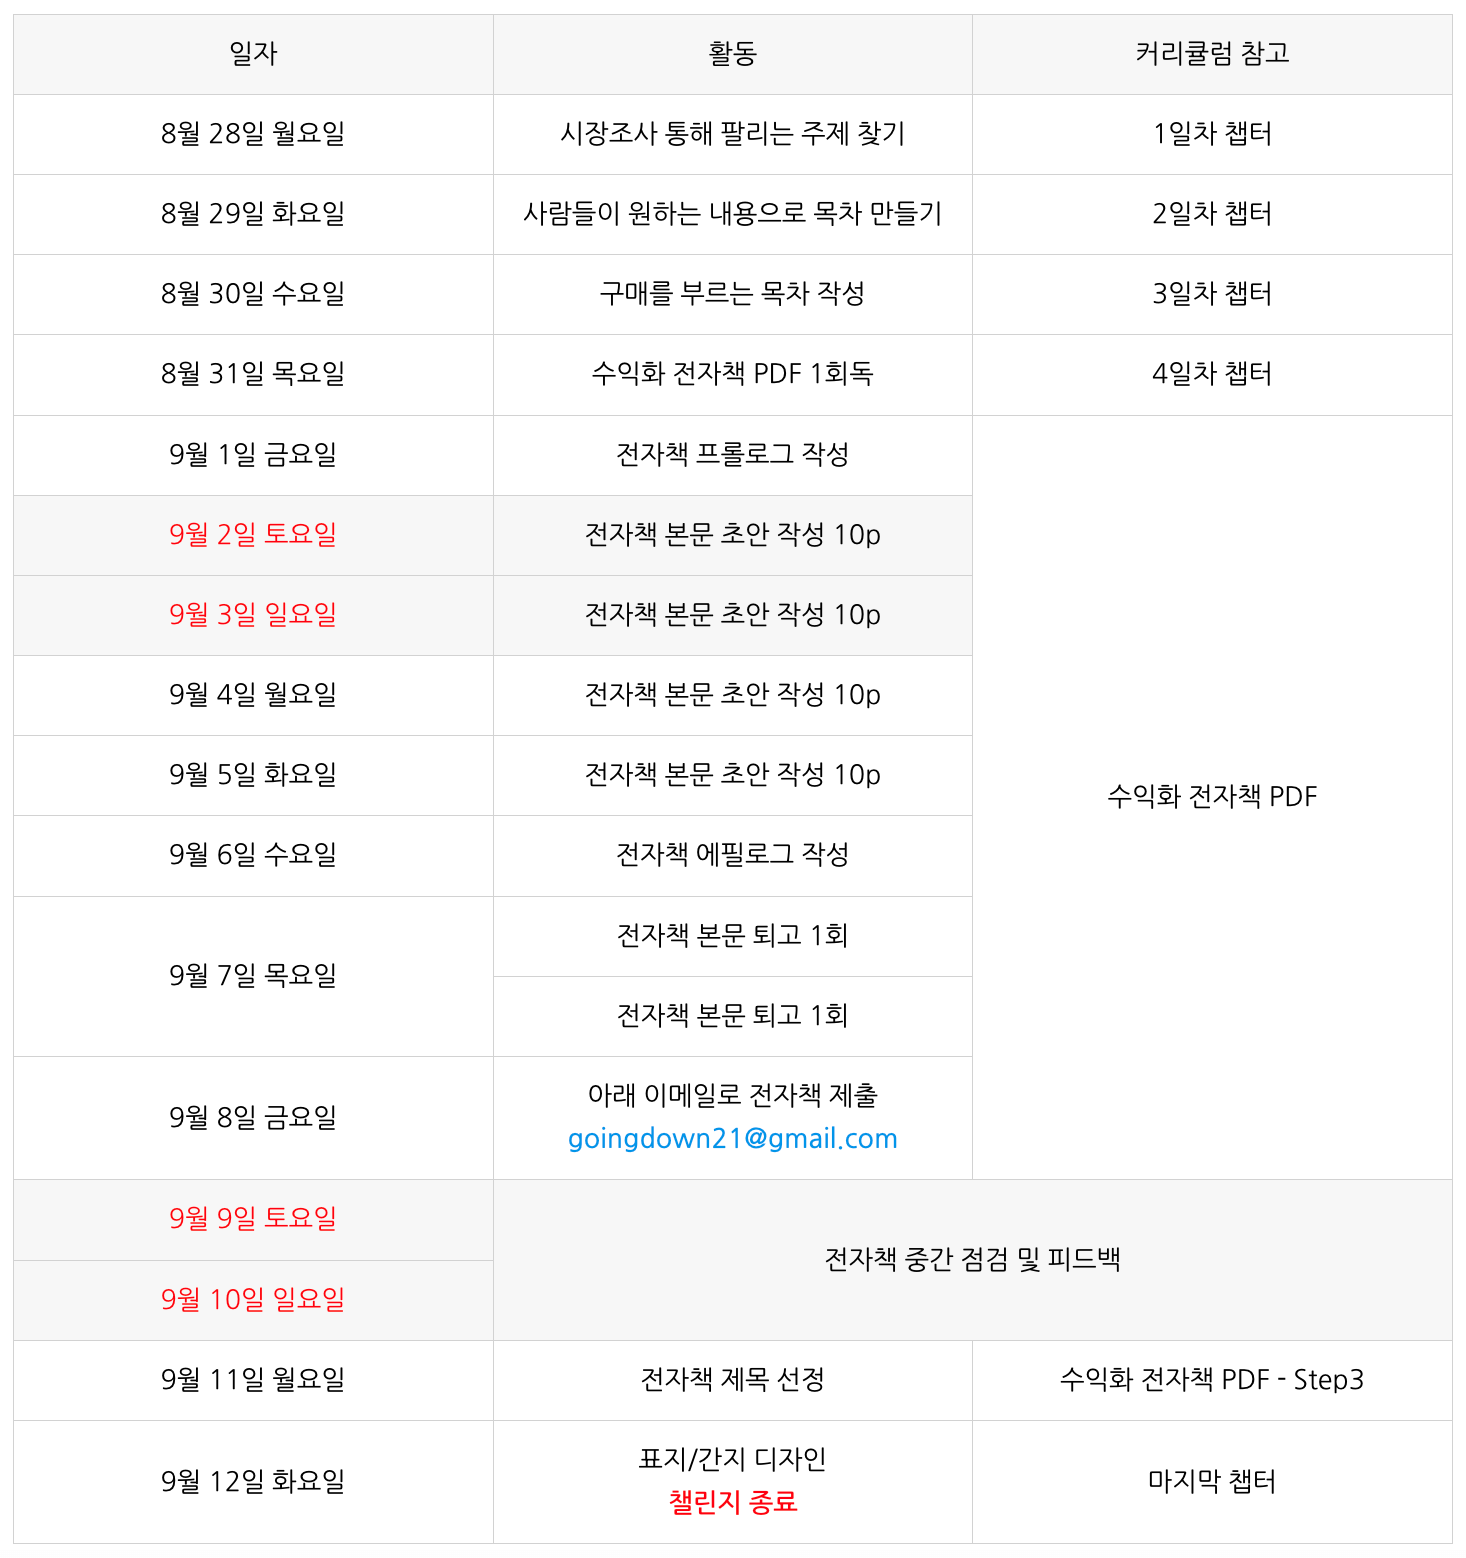
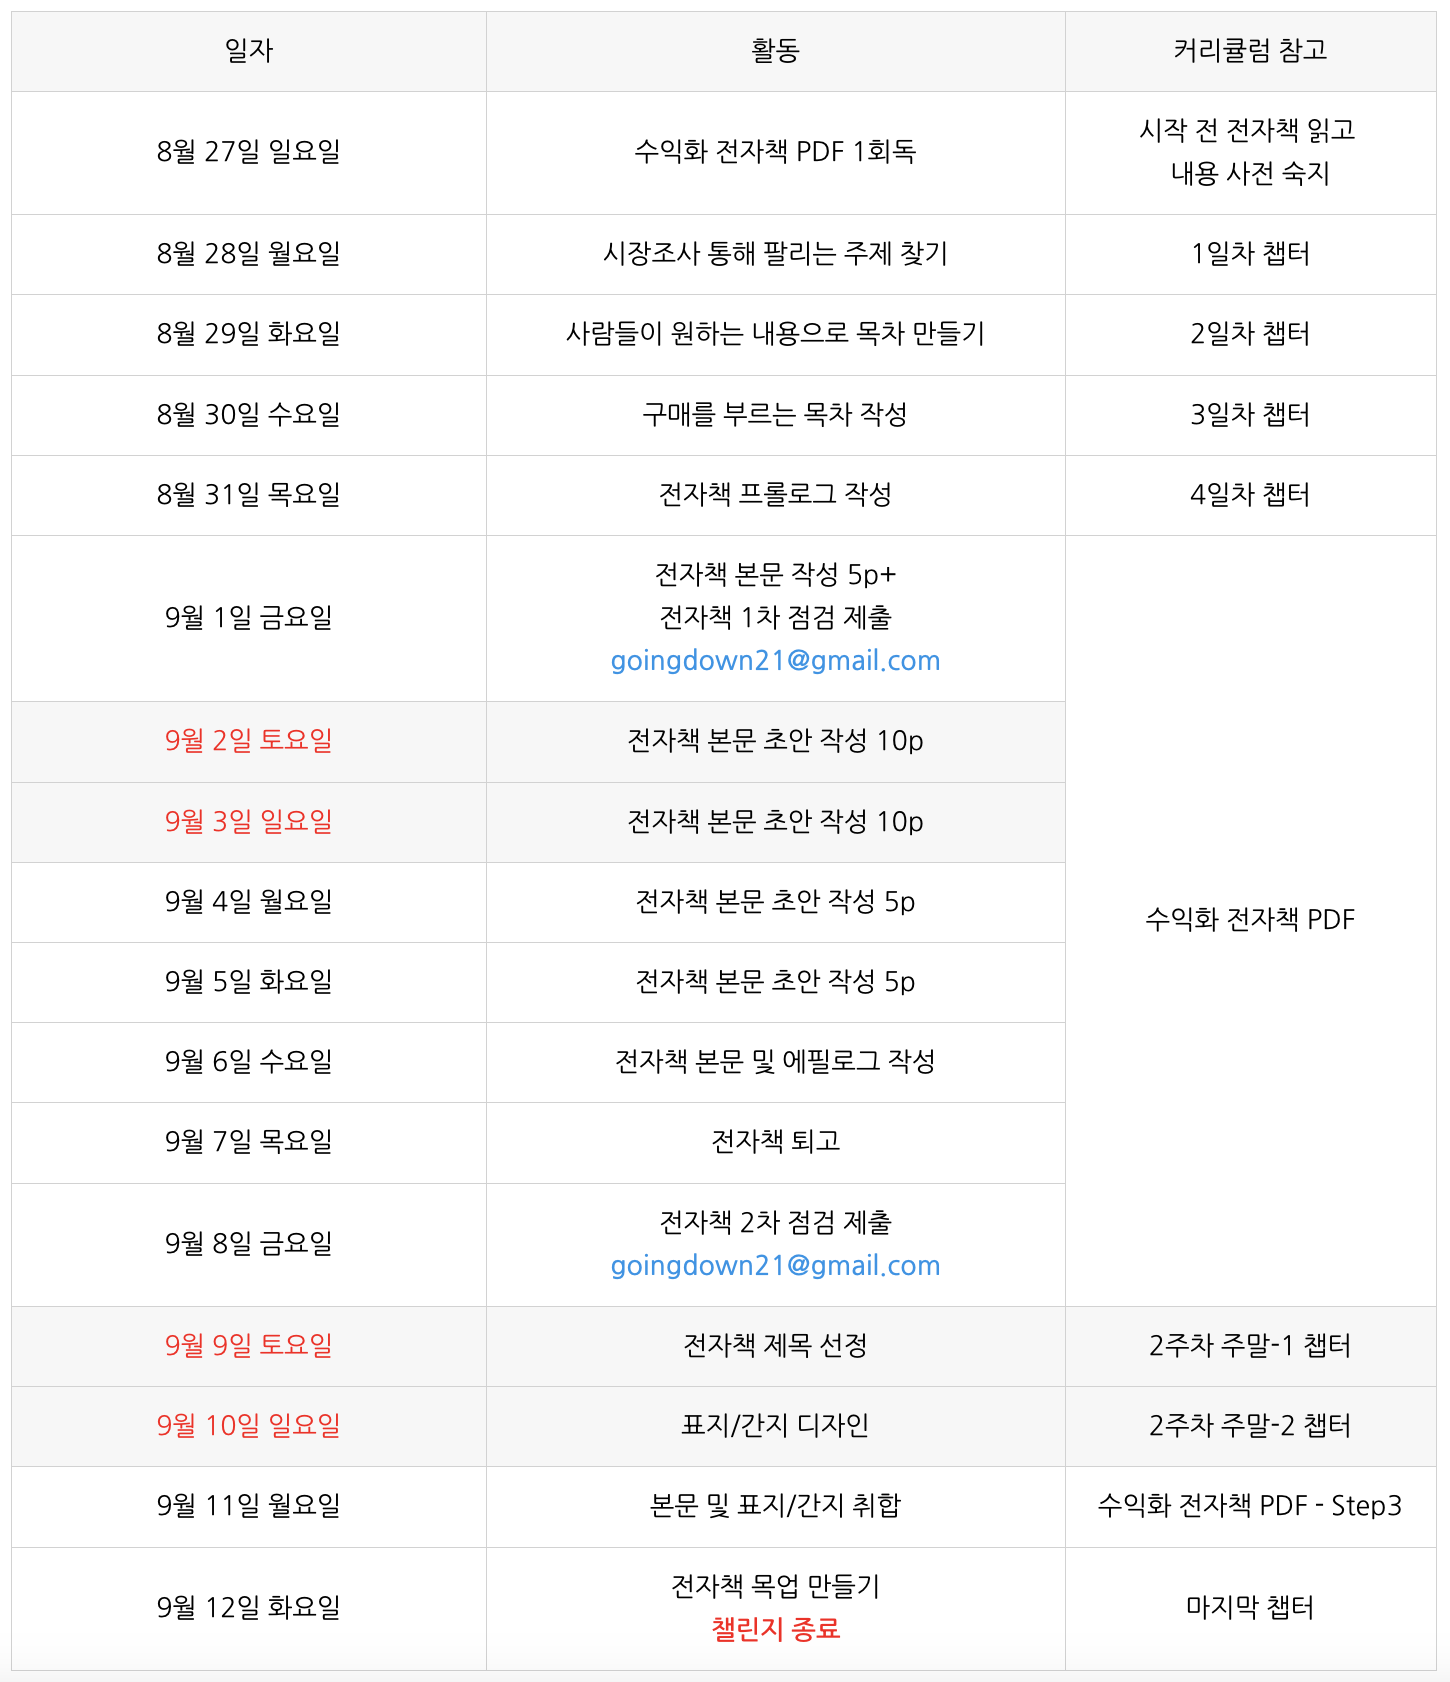
커리큘럼 및 본문 수정

diff --git a/challenge_ambition.html b/challenge_ambition.html
@@ -63,8 +63,8 @@
                     <br/>
                     <br/>
                     더 좋은 성과를 내실 수 있도록<br/>
-                    30일 동안의 성과를 바탕으로 업그레이드 하여<br/>
-                    한 달 뒤에 새로 공개될 예정입니다.
+                    15일 동안의 성과를 바탕으로 업그레이드 하여<br/>
+                    보름 뒤에 새로 공개될 예정입니다.
                 </p>
             </div>
             <div class="card form">
@@ -277,7 +277,7 @@
                     </p>
                 </div>
                 <p class="txt-story">
-                    전자책 챌린지 캠프는 <b>[1개월 만에 전자책 제작하는 법]</b>을 다룹니다.
+                    전자책 챌린지 캠프는 <b>[15일만에 전자책 제작하는 법]</b>을 다룹니다.
                     그래서 당신은 스스로 지식과 경험을 수익화 하는 방법을 터득하게 됩니다.
                     <br/><br/>
                     또한 '작가'라는 타이틀을 얻고, 수익을 얻게 됩니다.
